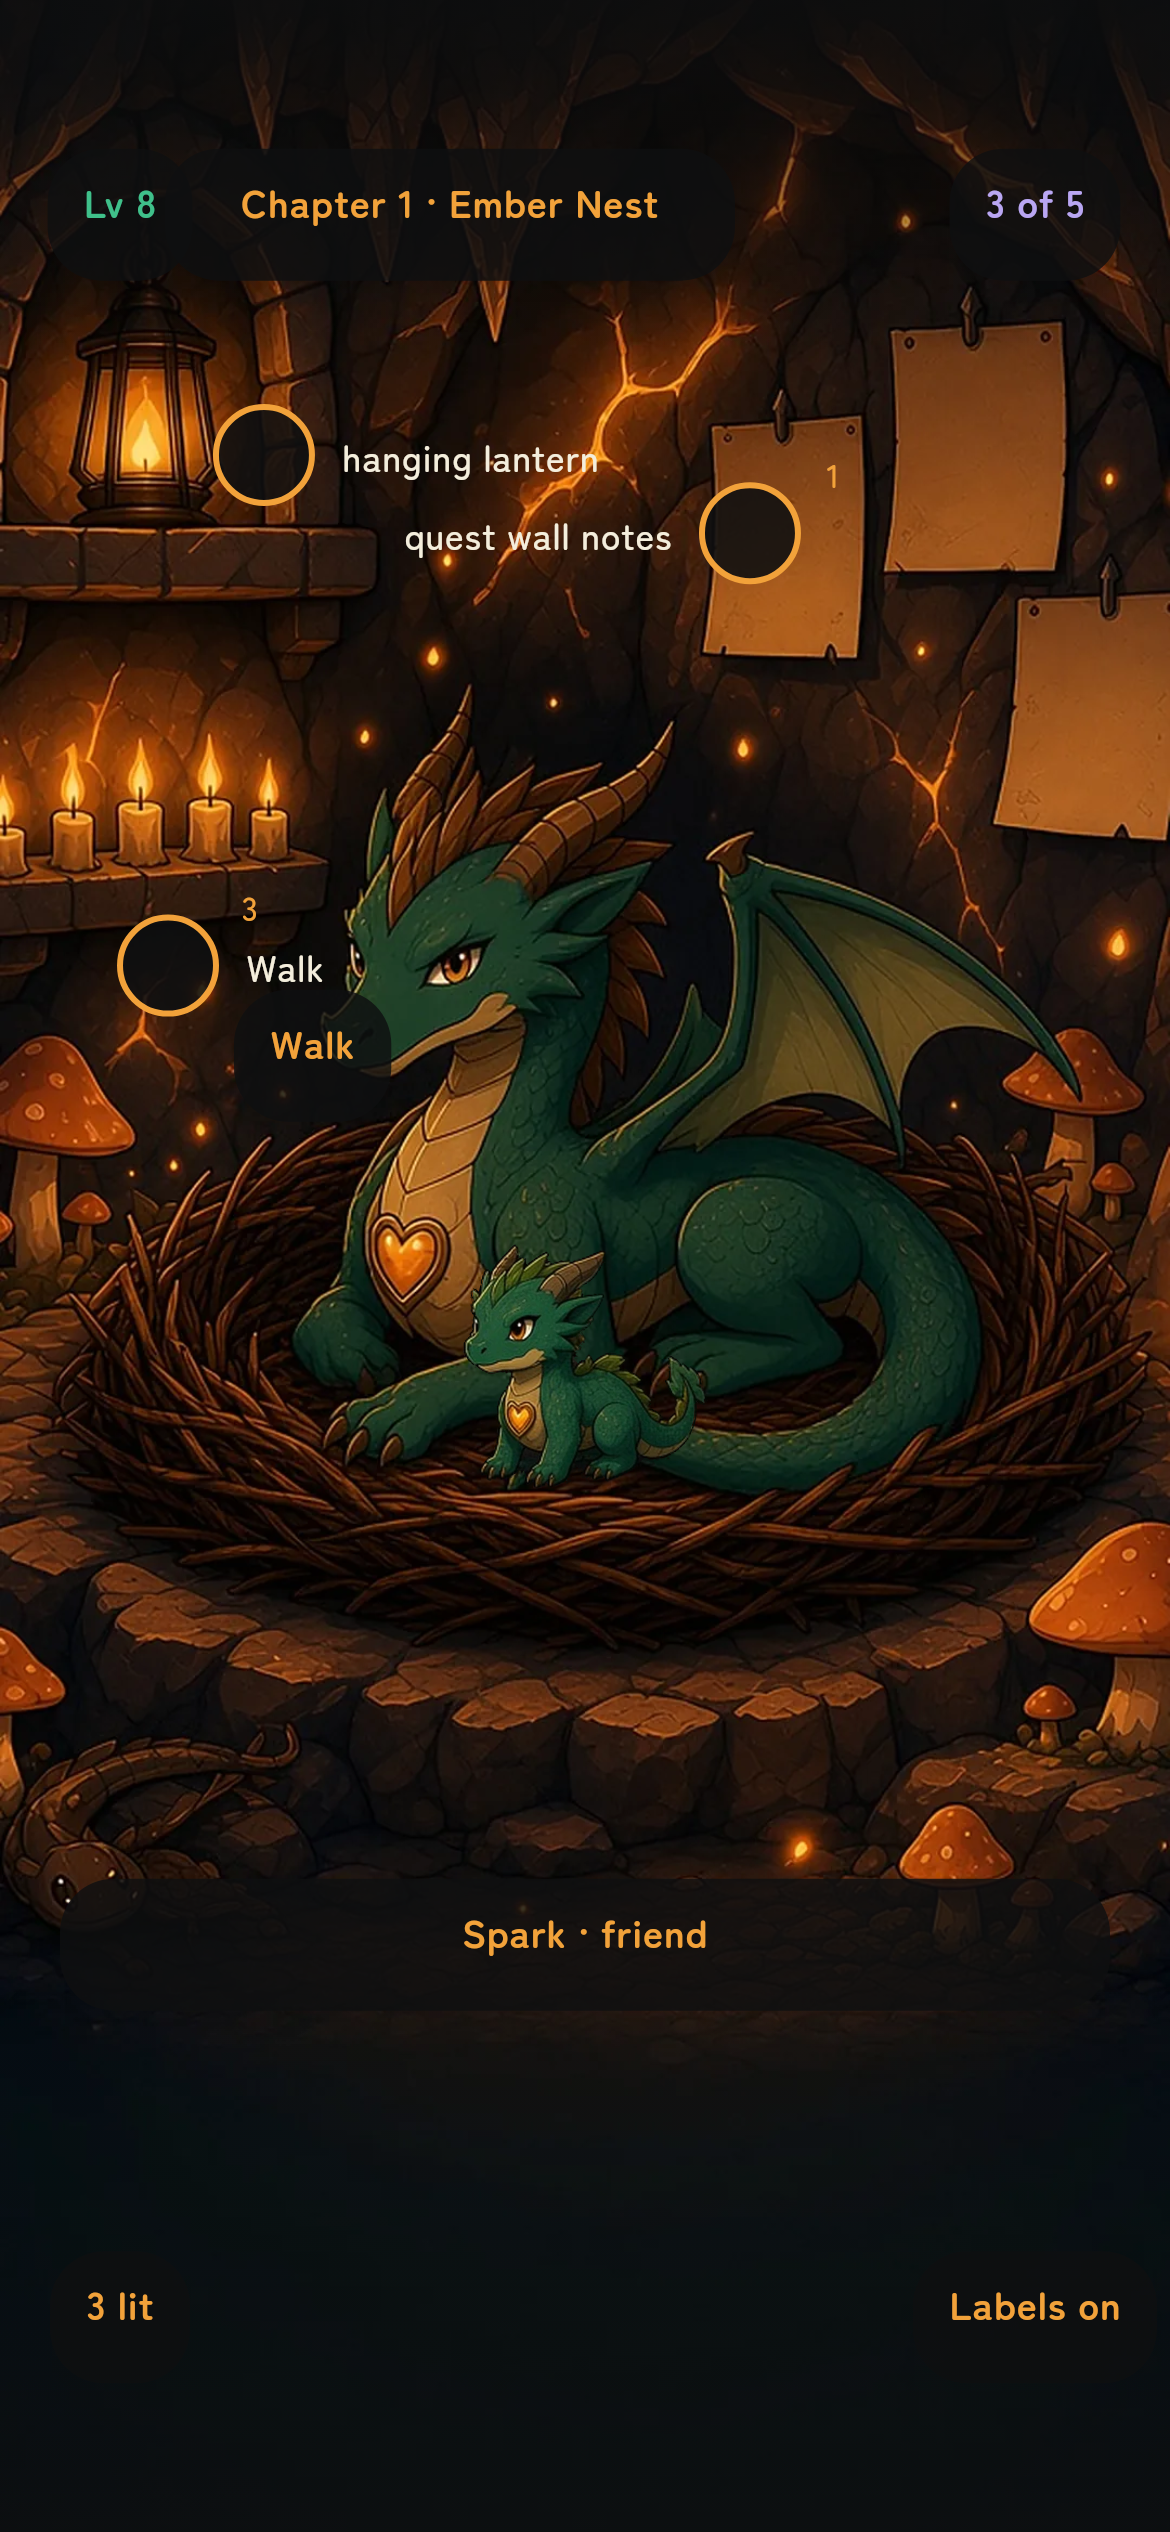
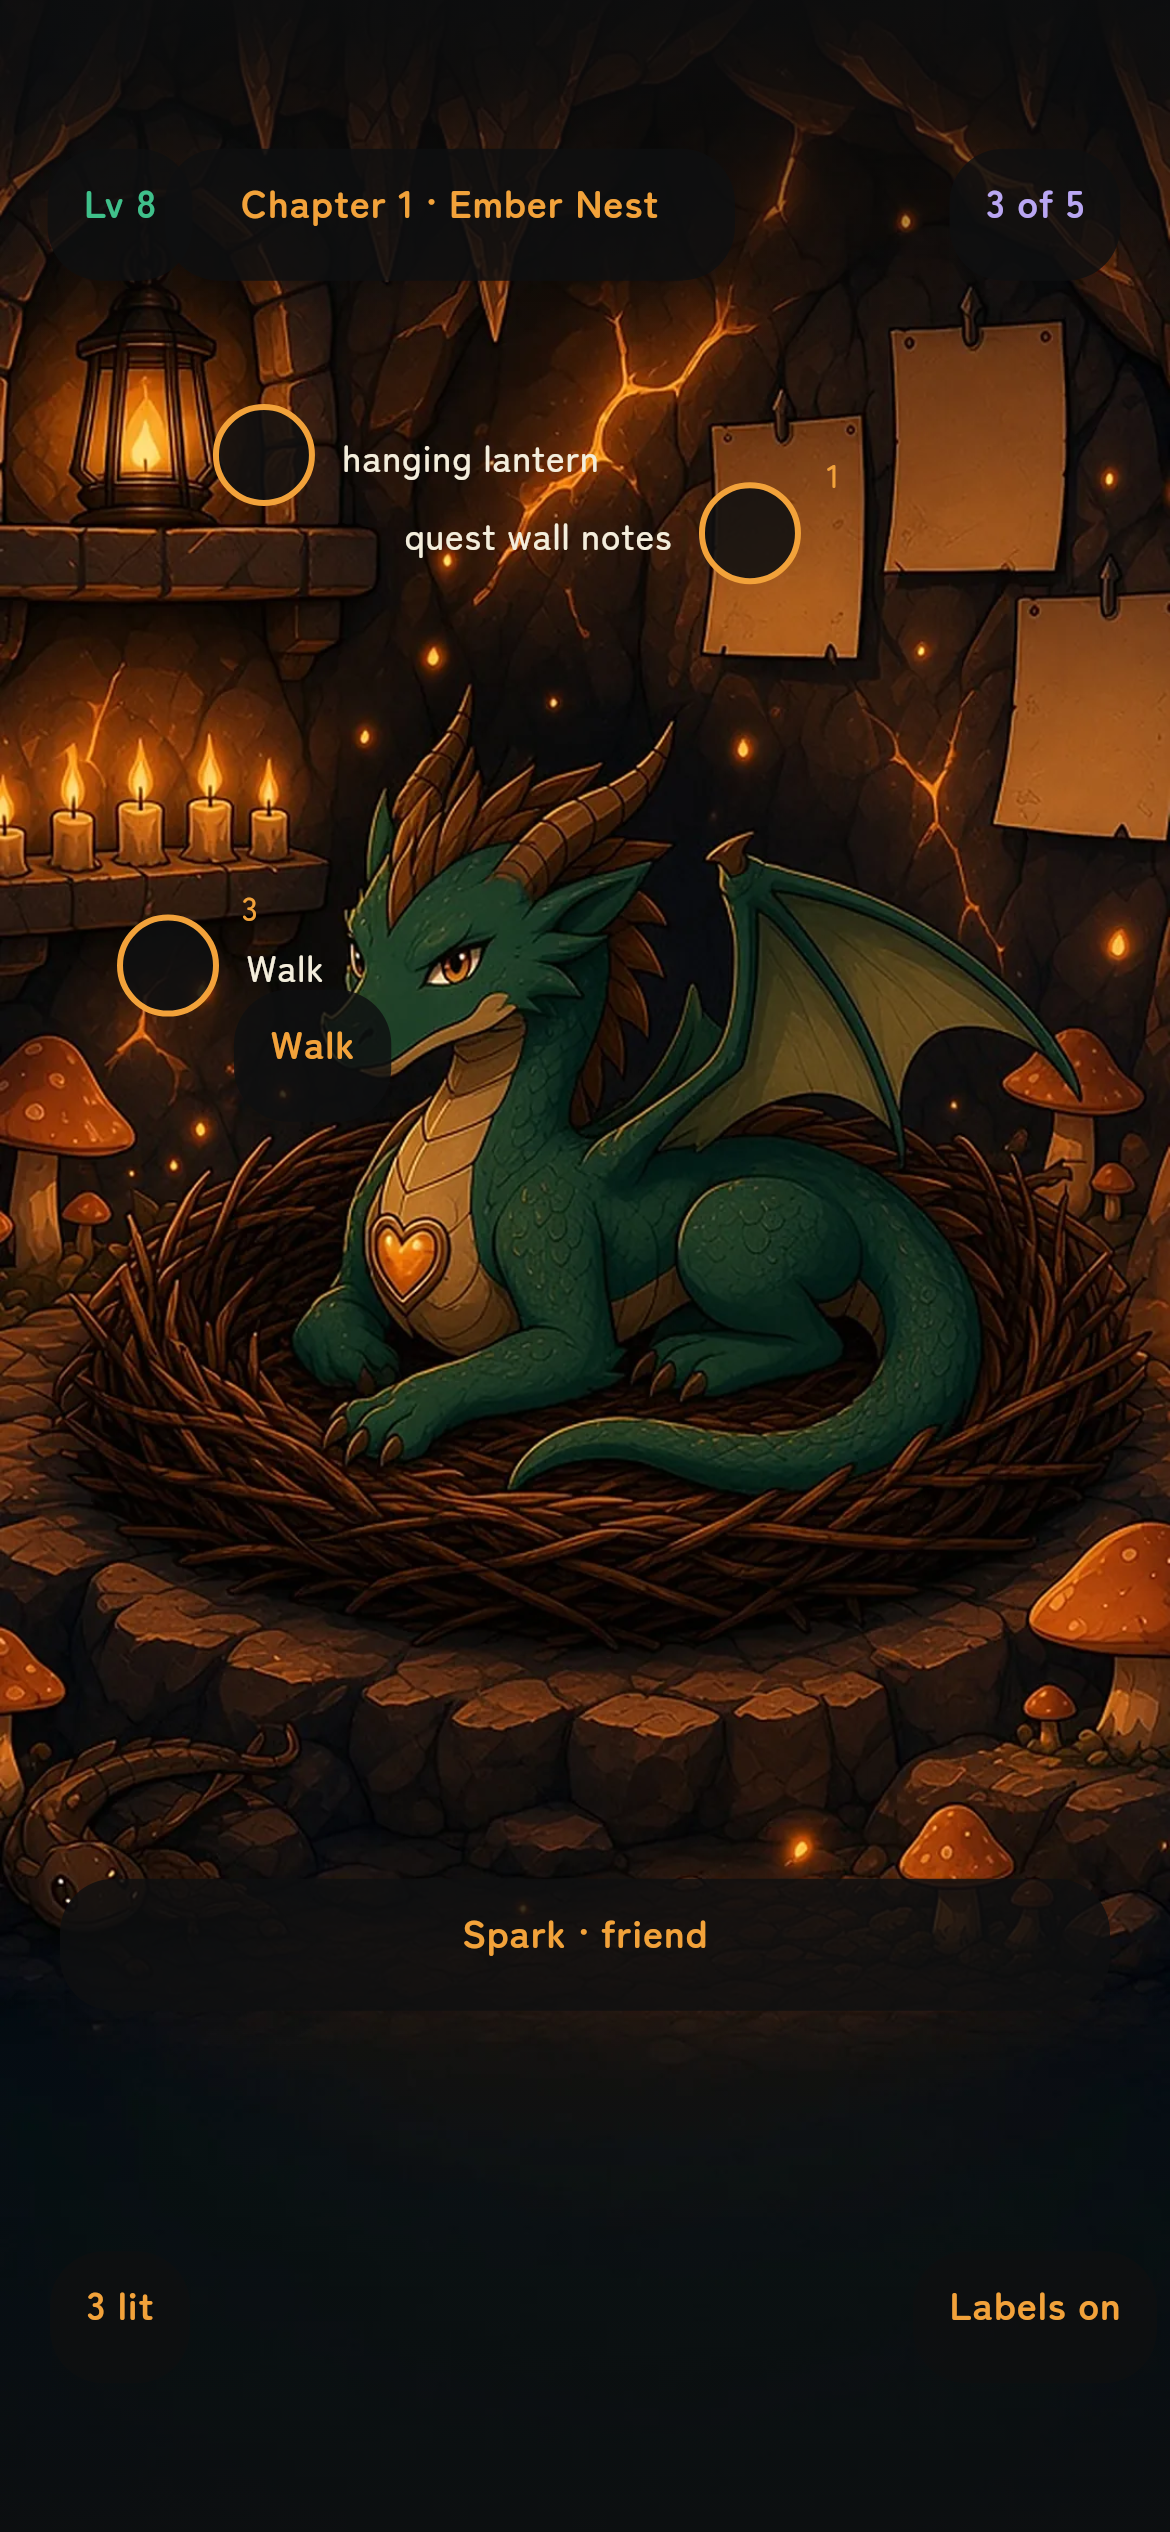
Stop drawing a second companion on painted plates.
Dragon, Panda, and Cat worlds 1 through 5 already include the pet, so the home skips the evolution sprite there and keeps it for a future empty plate.

Changed region(s): [[0.4, 0.468, 0.6154, 0.5928]]

diff --git a/ruhh/lib/features/v14/home/living_home_view.dart b/ruhh/lib/features/v14/home/living_home_view.dart
@@ -1,5 +1,6 @@
 import 'package:flutter/material.dart';
 import 'package:ruhh/features/v14/art/art_catalog.dart';
+import 'package:ruhh/features/v14/art/plate_companion.dart';
 import 'package:ruhh/features/v14/art/plate_cover.dart';
 import 'package:ruhh/features/v14/logic/pet_catalog.dart';
 import 'package:ruhh/features/v14/theme/v14_colors.dart';
@@ -49,11 +50,12 @@ class LivingHomeView extends StatelessWidget {
         builder: (context, constraints) {
           final size = Size(constraints.maxWidth, constraints.maxHeight);
           final cover = PlateCover(size);
+          final tapOrigin = cover.at(scene.tapX0, scene.tapY0);
+          final tapEnd = cover.at(scene.tapX1, scene.tapY1);
           final feet = cover.at((scene.tapX0 + scene.tapX1) / 2, scene.tapY1);
           final spriteHeight = form.heightDp * (size.width / 390);
           final spriteWidth = spriteHeight * 1.15;
-          final tapOrigin = cover.at(scene.tapX0, scene.tapY0);
-          final tapEnd = cover.at(scene.tapX1, scene.tapY1);
+          final paintSprite = !platePaintsCompanion(petId, world);
           return Stack(
             fit: StackFit.expand,
             children: [
@@ -62,20 +64,21 @@ class LivingHomeView extends StatelessWidget {
               ),
               const _EdgeShade(top: true),
               const _EdgeShade(top: false),
-              Positioned(
-                left: feet.dx - spriteWidth / 2,
-                top: feet.dy - spriteHeight,
-                width: spriteWidth,
-                height: spriteHeight,
-                child: IgnorePointer(
-                  child: Image.asset(
-                    form.sprite,
-                    key: const Key('companion-sprite'),
-                    fit: BoxFit.contain,
-                    alignment: Alignment.bottomCenter,
+              if (paintSprite)
+                Positioned(
+                  left: feet.dx - spriteWidth / 2,
+                  top: feet.dy - spriteHeight,
+                  width: spriteWidth,
+                  height: spriteHeight,
+                  child: IgnorePointer(
+                    child: Image.asset(
+                      form.sprite,
+                      key: const Key('companion-sprite'),
+                      fit: BoxFit.contain,
+                      alignment: Alignment.bottomCenter,
+                    ),
                   ),
                 ),
-              ),
               Positioned(
                 left: tapOrigin.dx,
                 top: tapOrigin.dy,

diff --git a/ruhh/test/v14/logic_test.dart b/ruhh/test/v14/logic_test.dart
@@ -5,6 +5,7 @@ import 'package:ruhh/core/data/models/user_local.dart';
 import 'package:ruhh/core/services/supabase_sync_service.dart';
 import 'package:ruhh/features/prayer/tracker/prayer_domain.dart';
 import 'package:ruhh/features/v14/art/art_catalog.dart';
+import 'package:ruhh/features/v14/art/plate_companion.dart';
 import 'package:ruhh/features/v14/data/v14_models.dart';
 import 'package:ruhh/features/v14/data/v14_store.dart';
 import 'package:ruhh/features/v14/logic/chat_intent.dart';
@@ -46,6 +47,16 @@ void main() {
     expect(artWorldOf('panda', 3).plate, contains('river_gorge'));
     expect(artFormForLevel('dragon', 1).name, 'Ember Egg');
     expect(artFormForLevel('cat', 90).name, 'Star Warden');
+  });
+
+  test('every shipped plate already paints the companion', () {
+    for (final pet in ['dragon', 'panda', 'cat']) {
+      for (var world = 1; world <= 5; world++) {
+        expect(platePaintsCompanion(pet, world), isTrue, reason: '$pet $world');
+      }
+    }
+    expect(platePaintsCompanion('dragon', 0), isFalse);
+    expect(platePaintsCompanion('newpet', 1), isFalse);
   });
 
   test('excluded modules never receive XP', () async {

diff --git a/ruhh/lib/features/v14/art/plate_companion.dart b/ruhh/lib/features/v14/art/plate_companion.dart
@@ -1,0 +1,26 @@
+/// Shipped home plates paint the companion into the scene.
+///
+/// Overlaying [ArtForm.sprite] on these plates draws a second pet. A future
+/// companion-free plate is left out of this set, and the home draws the
+/// evolution sprite in that gap. Dragon, Panda, and Cat worlds 1–5 are all
+/// painted plates.
+const platesWithCompanion = <String>{
+  'dragon:1',
+  'dragon:2',
+  'dragon:3',
+  'dragon:4',
+  'dragon:5',
+  'panda:1',
+  'panda:2',
+  'panda:3',
+  'panda:4',
+  'panda:5',
+  'cat:1',
+  'cat:2',
+  'cat:3',
+  'cat:4',
+  'cat:5',
+};
+
+bool platePaintsCompanion(String petId, int world) =>
+    platesWithCompanion.contains('$petId:$world');
